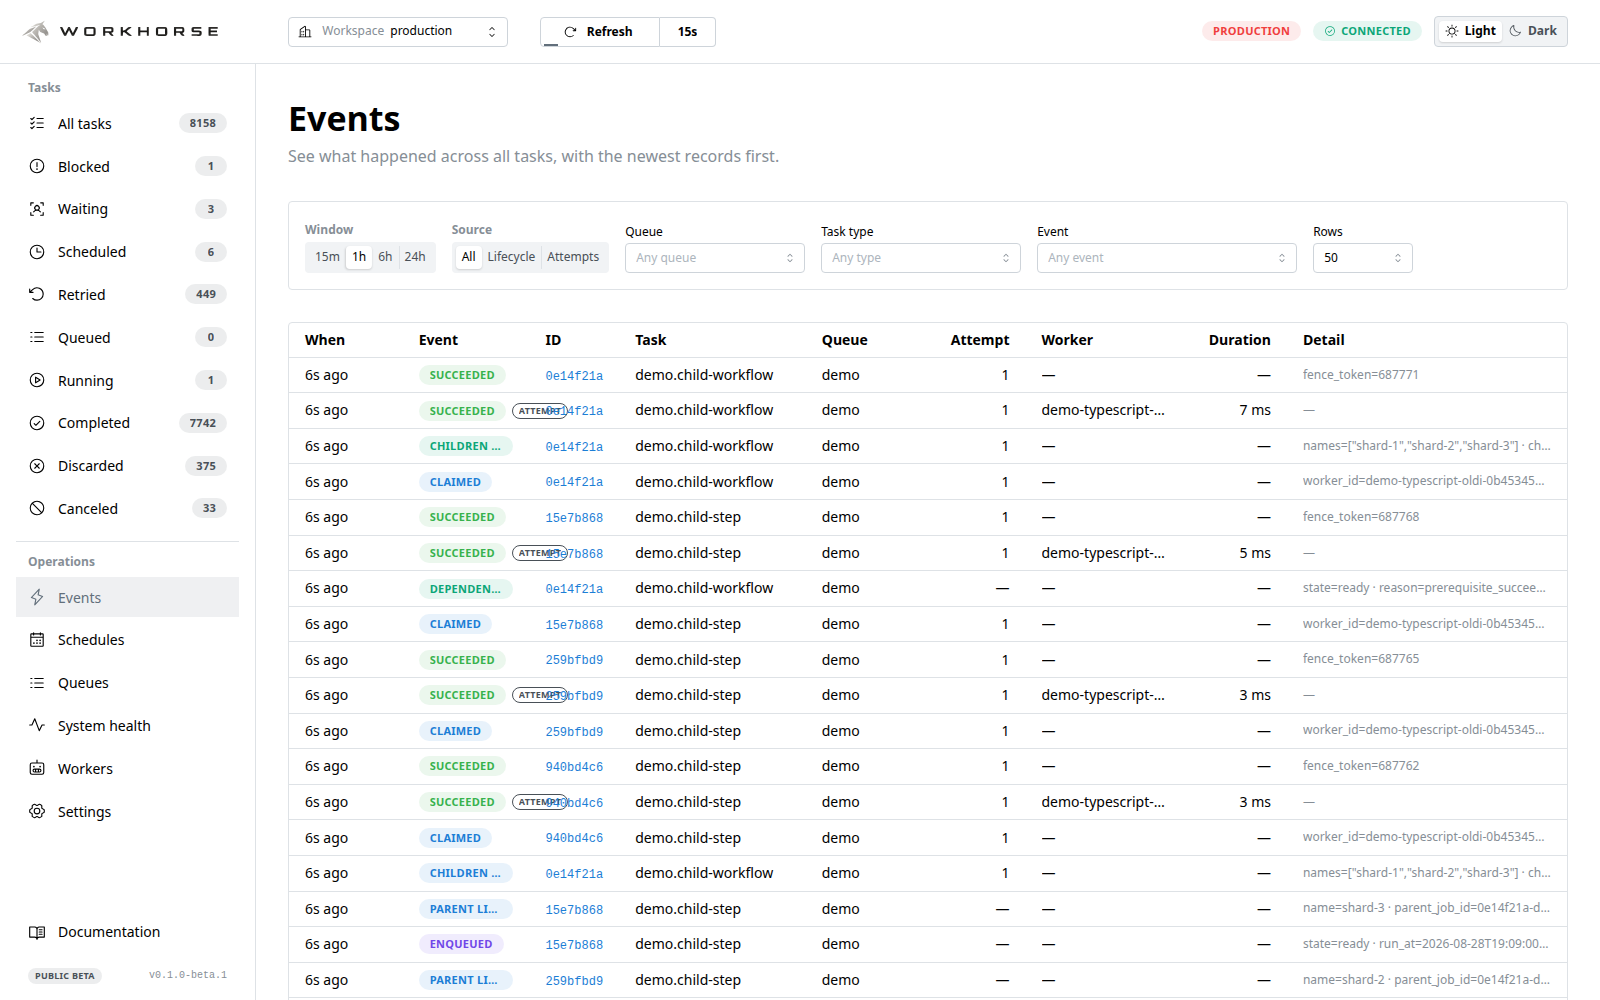
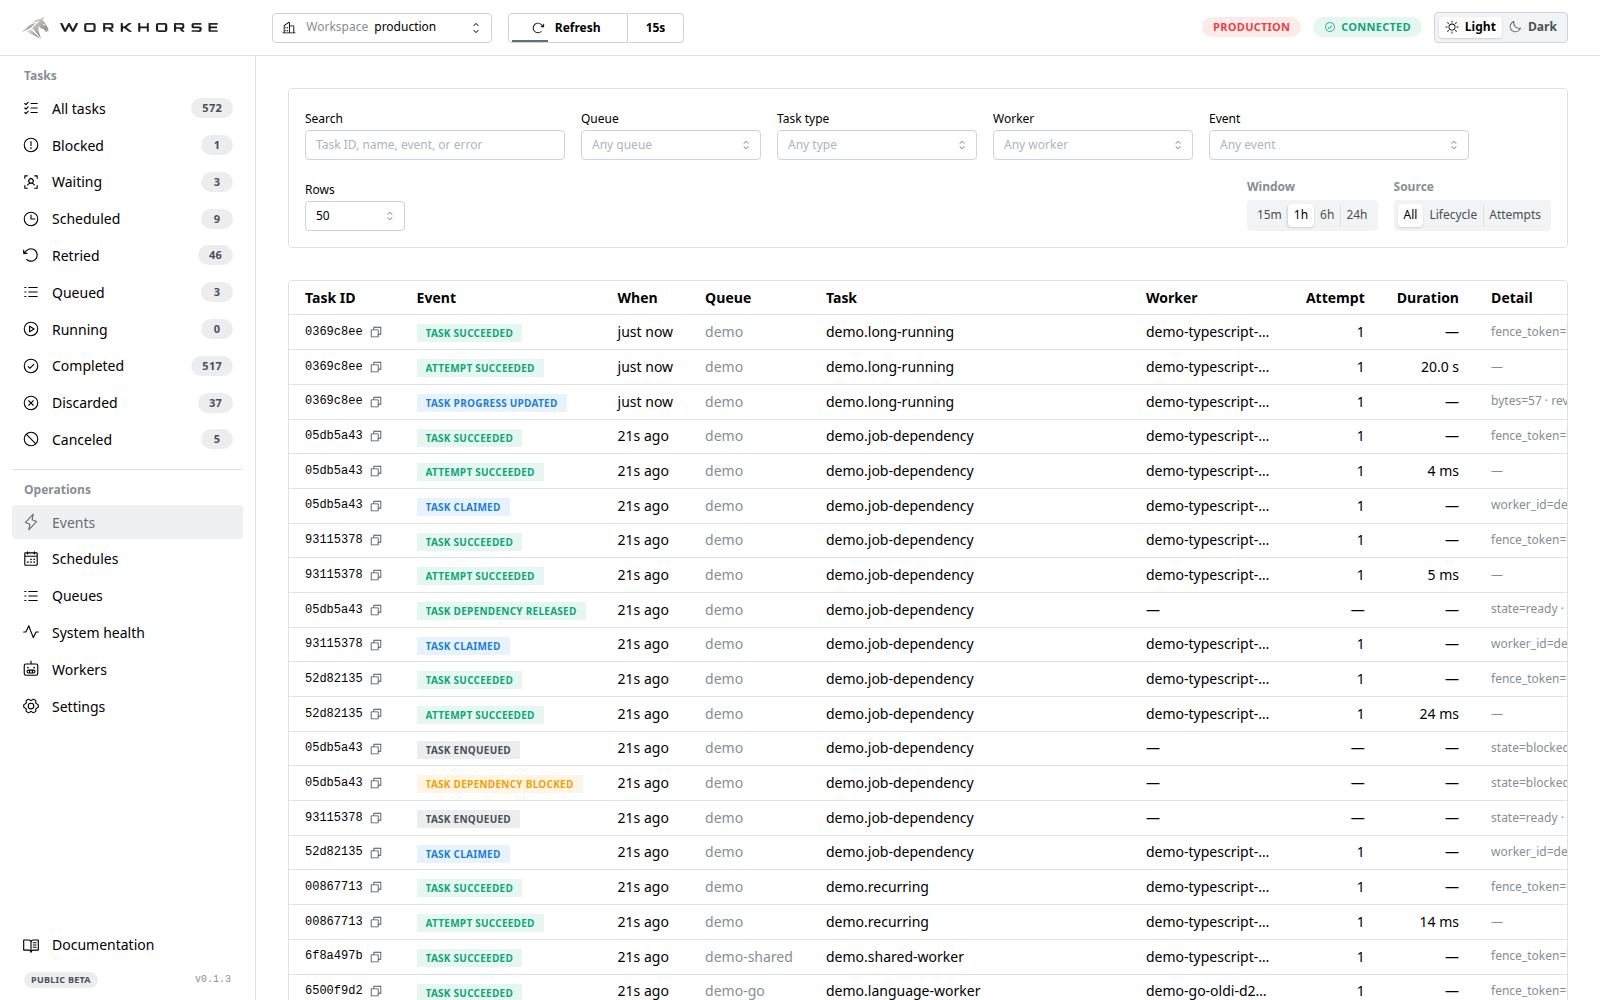
SM-706: Refresh dashboard screenshots for the 0.1.3 UI.
Recapture all five demo screens from the live deployment and show them
in one README row at reduced size. The landing carousel serves the same
files.

diff --git a/README.md b/README.md
@@ -34,15 +34,11 @@ The dashboard exposes task activity, lifecycle events, system health, worker cap
 without making the queue's PostgreSQL tables part of your operator interface.
 
 <p>
-  <a href="site/public/screenshots/demo-tasks.png"><img src="site/public/screenshots/demo-tasks.png" width="49%" alt="Workhorse dashboard task activity chart and task table"></a>
-  <a href="site/public/screenshots/demo-events.png"><img src="site/public/screenshots/demo-events.png" width="49%" alt="Workhorse event stream with task lifecycle events and operational details"></a>
-</p>
-<p>
-  <a href="site/public/screenshots/demo-health.png"><img src="site/public/screenshots/demo-health.png" width="49%" alt="Workhorse system health dashboard with queue backlog and retry metrics"></a>
-  <a href="site/public/screenshots/demo-workers.png"><img src="site/public/screenshots/demo-workers.png" width="49%" alt="Workhorse worker fleet with queue assignments, capacity, and recent results"></a>
-</p>
-<p align="center">
-  <a href="site/public/screenshots/demo-schedules.png"><img src="site/public/screenshots/demo-schedules.png" width="49%" alt="Workhorse schedule list with expressions, destinations, and recent runs"></a>
+  <a href="site/public/screenshots/demo-tasks.png"><img src="site/public/screenshots/demo-tasks.png" width="19%" alt="Workhorse dashboard task activity chart and task table"></a>
+  <a href="site/public/screenshots/demo-events.png"><img src="site/public/screenshots/demo-events.png" width="19%" alt="Workhorse event stream with task lifecycle events and operational details"></a>
+  <a href="site/public/screenshots/demo-health.png"><img src="site/public/screenshots/demo-health.png" width="19%" alt="Workhorse system health dashboard with queue backlog and retry metrics"></a>
+  <a href="site/public/screenshots/demo-workers.png"><img src="site/public/screenshots/demo-workers.png" width="19%" alt="Workhorse worker fleet with queue assignments, capacity, and recent results"></a>
+  <a href="site/public/screenshots/demo-schedules.png"><img src="site/public/screenshots/demo-schedules.png" width="19%" alt="Workhorse schedule list with expressions, destinations, and recent runs"></a>
 </p>
 
 Open the [live demo](https://demo.workhorse.run) to explore the dashboard, including recurring
